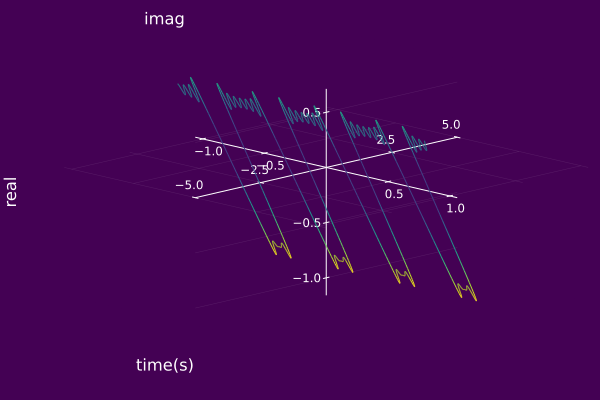
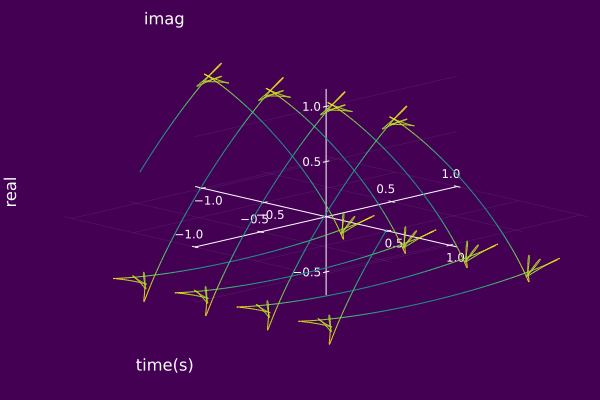
updated Fourier example

diff --git a/docs/src/basicModels/Fourier.md b/docs/src/basicModels/Fourier.md
@@ -147,41 +147,43 @@ Consider a signal $z(t)$ which consists of a
 the periodic square wave (fundamental period $T$) with a 50% duty cycle where one period is defined by
 
 $z(t) = \begin{cases}
-        1, &   0<|t|<T/3  \\
-        \mathrm{e}^{\,\mathrm{j 2\pi/3}} , &   T/3<|t|<2T/3  \\
-        \mathrm{e}^{\,\mathrm{j} 4\pi/3},  &   2T/3<|t|<T        
+        1, &   0<t<T/3  \\
+        \mathrm{e}^{\,\mathrm{j 2\pi/3}} , &   T/3<t<2T/3  \\
+        \mathrm{e}^{\,\mathrm{j} 4\pi/3},  &   2T/3<t<T        
         \end{cases}.$
 
-We can represent this signal with component set consisting of a set of harmonicly related SHCs
+We can represent this signal with component set consisting of a set of harmonically related SHCs
 
 $\mathscr{S}=\left\{\cdots,\mathscr{C}_{-1},\mathscr{C}_0,\mathscr{C}_1,\cdots\right\},~\mathscr{C}_k = \left\{a_k,k\omega_0, \phi_k\vphantom{0^0}\right\},~k = 0,\pm 1,\pm 2,\ldots$
 
 where
 
-$a_k = \mathrm{abs}\left(\frac{\sin(k2\pi/3)}{k\pi}-e^{j2π/3}\frac{\sin(k2\pi/3)}{k\pi}+e^{j2π/3}\frac{\sin(k4\pi/3)}{k\pi}-e^{j4π/3}\frac{\sin(k4\pi/3)}{k\pi}\right)~~~\mathrm{and}~~~\\
+$a_k = \mathrm{abs}\left(\frac{1-e^{-jk2π/3}-e^{j2π/3}e^{-jk4π/3}+e^{j2π/3}e^{-jk2π/3}-e^{j4π3}e^{-jk2π}+e^{j4π/3}e^{-jk4π/3}}{jk2π}\right)~~~\mathrm{and}~~~\\
 
-\phi_k= \mathrm{arg}\left(\frac{\sin(k2\pi/3)}{k\pi}-e^{j2π/3}\frac{\sin(k2\pi/3)}{k\pi}+e^{j2π/3}\frac{\sin(k4\pi/3)}{k\pi}-e^{j4π/3}\frac{\sin(k4\pi/3)}{k\pi}\right).$
+\phi_k= \mathrm{arg}\left(\frac{1-e^{-jk2π/3}-e^{j2π/3}e^{-jk4π/3}+e^{j2π/3}e^{-jk2π/3}-e^{j4π3}e^{-jk2π}+e^{j4π/3}e^{-jk4π/3}}{jk2π}\right).$
 
 For a this choice of parameters of the component set, we have the following Argand Diagram for $z(t;\mathscr{S})$, 3D IS $\mathcal{S}(t,\omega,s;\mathscr{S})$, and 2D IS $\mathcal{S}(t,\omega;\mathscr{S})$. Keep in mind, we are only considering a finite number of components $k = 0,\pm 1,\pm 2,\ldots,K$ not $k = 0,\pm 1,\pm2,\ldots,\pm\infty$.
 
 ```julia
 using ISA, Plots
 T = 0.5
-aₖ(k) = ifelse( k==0, 0, sin(k*2π/3)/(k*π)-exp(im*2π/3)*sin(k*2π/3)/(k*π)+
-exp(im*2π/3)*sin(k*4π/3)/(k*π)-exp(im*4π/3)*sin(k*4π/3)/(k*π) )
+aₖ(k) = ifelse( k==0, 0, (1-exp(-im*k*2π/3)-exp(im*2π/3)*
+exp(-im*k*4π/3)+exp(im*2π/3)*exp(-im*k*2π/3)-exp(im*4π/3)*
+exp(-im*k*2π)+exp(im*4π/3)*exp(-im*k*4π/3))/(im*k*2π) )
 
 kInds = -10:10
 𝑆 = fourierSeries(T, aₖ, kInds)
 z = AMFMmodel(𝑆)
-plot(z; timeaxis=-1.0:0.001:1.0, ylims=(-5.0,5.0))
+plot(z; timeaxis=-1.0:0.001:1.0, ylims=(-1.0,1.0))
 ```
 ![](https://raw.githubusercontent.com/NMSU-ISA/ISA/master/docs/src/assets/IS_exFourier7.png)
 
 ```julia
 using ISA, Plots
 T = 0.5
-aₖ(k) = ifelse( k==0, 0, sin(k*2π/3)/(k*π)-exp(im*2π/3)*sin(k*2π/3)/(k*π)+
-exp(im*2π/3)*sin(k*4π/3)/(k*π)-exp(im*4π/3)*sin(k*4π/3)/(k*π) )
+aₖ(k) = ifelse( k==0, 0, (1-exp(-im*k*2π/3)-exp(im*2π/3)*
+exp(-im*k*4π/3)+exp(im*2π/3)*exp(-im*k*2π/3)-exp(im*4π/3)*
+exp(-im*k*2π)+exp(im*4π/3)*exp(-im*k*4π/3))/(im*k*2π) )
 kInds = -10:10
 𝑆 = fourierSeries(T, aₖ, kInds)
 z = AMFMmodel(𝑆)
@@ -192,8 +194,9 @@ plot(𝑆; timeaxis=-1.0:0.001:1.0)
 ```julia
 using ISA, Plots
 T = 0.5
-aₖ(k) = ifelse( k==0, 0, sin(k*2π/3)/(k*π)-exp(im*2π/3)*sin(k*2π/3)/(k*π)+
-exp(im*2π/3)*sin(k*4π/3)/(k*π)-exp(im*4π/3)*sin(k*4π/3)/(k*π) )
+aₖ(k) = ifelse( k==0, 0, (1-exp(-im*k*2π/3)-exp(im*2π/3)*
+exp(-im*k*4π/3)+exp(im*2π/3)*exp(-im*k*2π/3)-exp(im*4π/3)*
+exp(-im*k*2π)+exp(im*4π/3)*exp(-im*k*4π/3))/(im*k*2π) )
 kInds = -10:10
 𝑆 = fourierSeries(T, aₖ, kInds)
 z = AMFMmodel(𝑆)
